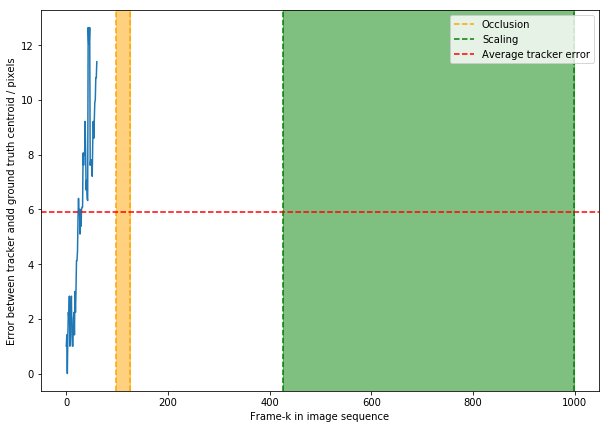
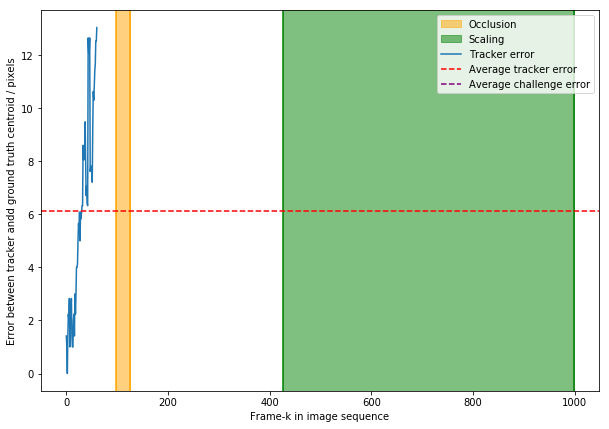
added final graphs

diff --git a/body/Results.tex b/body/Results.tex
@@ -138,7 +138,7 @@ the man, the adaptive template is updated with information from the man in the
 background which as the girl moves away becomes the larger match, thus the
 tracker loses the girl. 
 
-\Figure[width=0.8\columnwidth]{Graph of average error of adaptive tracker (pixels) vs frames in sequence}{results/adaptive_template_tracker/metric.png}
+\Figure[width=0.8\columnwidth]{Graph of tracker error of ATT (pixels) vs frames in sequence}{results/adaptive_template_tracker/metric.png}
 
 \begin{figure}     
     \makebox[\linewidth][c]{
@@ -308,7 +308,7 @@ between vertical bars, with the partial occlusion/track overlap challenge and th
 Reference to the graph is made in the treatment of the discussion of the
 particular challenges that follows.
 
-\Figure[width=0.8\columnwidth]{Graph of average error of MST (pixels) vs frames in sequence}{results/mean_shift_tracker/fish3/metric.png}
+\Figure[width=0.8\columnwidth]{Graph of tracker error of MST (pixels) vs frames in fish sequence}{results/mean_shift_tracker/fish3/metric.png}
 
 \subsubsection{Partial occlusion}\label{mean_shift_partial_occlusion}
 The relevant subsequence exhibiting partial occlusion ranges from
@@ -424,7 +424,7 @@ Section~\ref{methodology_data_analysis}.
 The motion tracking challenges present within the sequence are highlighted
 between vertical bars.
 
-\Figure[width=0.8\columnwidth]{Graph of average error of MST (pixels) vs frames in sequence}{results/mean_shift_tracker/girl/metric.png}
+\Figure[width=0.8\columnwidth]{Graph of tracker error of MST (pixels) vs frames in girl sequence}{results/mean_shift_tracker/girl/metric.png}
 
 \subsubsection{Complete occlusion}
 The relevant subsequence exhibiting occlusion ranges from $\mathbf{f}_{97}$ to
@@ -532,6 +532,10 @@ The challenges presented by this sequence are the following:
     \item Target speed
     \item Track overlap
 \end{itemize}
+
+\Figure[width=0.8\columnwidth]{Graph of tracker error of adaptive tracker (pixels) vs frames in ant sequence}{results/mean_shift_tracker/ants/metric.png}
+
+
 
 \subsubsection{Target speed}\label{mean_shift_target_speed}
 The relevant subsequence ranges from $\mathbf{f}_{202}$ to $\mathbf{f}_{250}$

diff --git a/body/TheoreticalFramework.tex b/body/TheoreticalFramework.tex
@@ -42,8 +42,8 @@ In it's simplest form,
 \subsection{Template matching tracking algorithms}\label{theoretical_framework_tm_algorithms}
 
 \section{Colour Co-occurrence Histogram Detector}\label{theoretical_framework_ch}
-As presented in Sections~\ref{results_simple_template_matching} and~\ref{
-results_adaptive_template_matching}, the simple and adaptive template matching
+As presented in Sections~\ref{results_simple_template_matching} and~\ref{results_adaptive_template_matching}, 
+the simple and adaptive template matching
 approaches showed some success when applied to the motion
 tracking problem. However, the simple template tracker was unable to cope with
 slight rotation of the target as the sequence progressed.
@@ -129,7 +129,8 @@ where:
     \item $i,j$ iterates the source and destination quantized pixel counts level respectively over the
         region of interest.
 \end{itemize}
-Chang et al~\cite{Chang1999} expresses the intersection as a measure of how well the
+
+Chang~\cite{Chang1999} expresses the intersection as a measure of how well the
 candidate accounts for the model CCH. In taking the minimum between the two
 for each quantization level and distance two things are occurring. Firstly if a
 candidate has high counts for certain quantizations, the $I_{cm}$ ignores these
